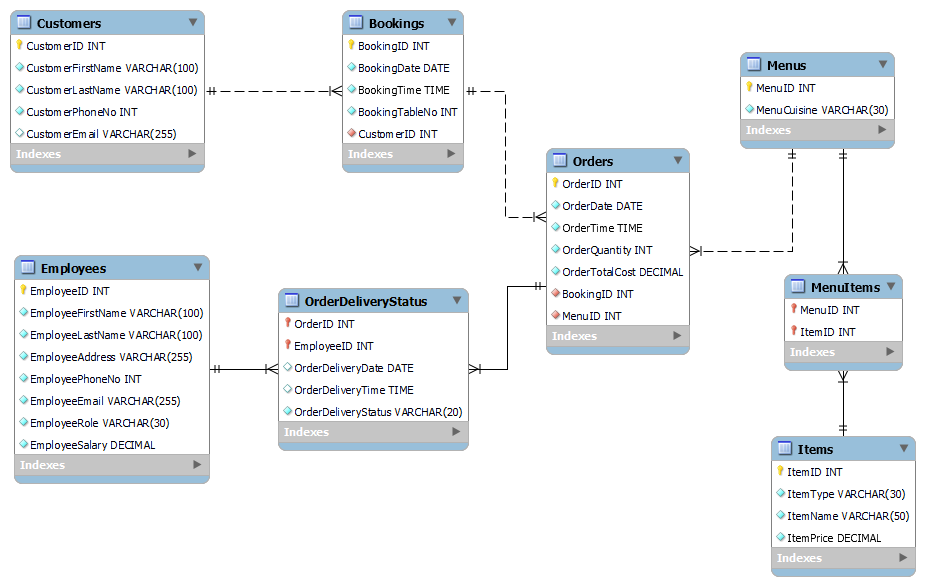
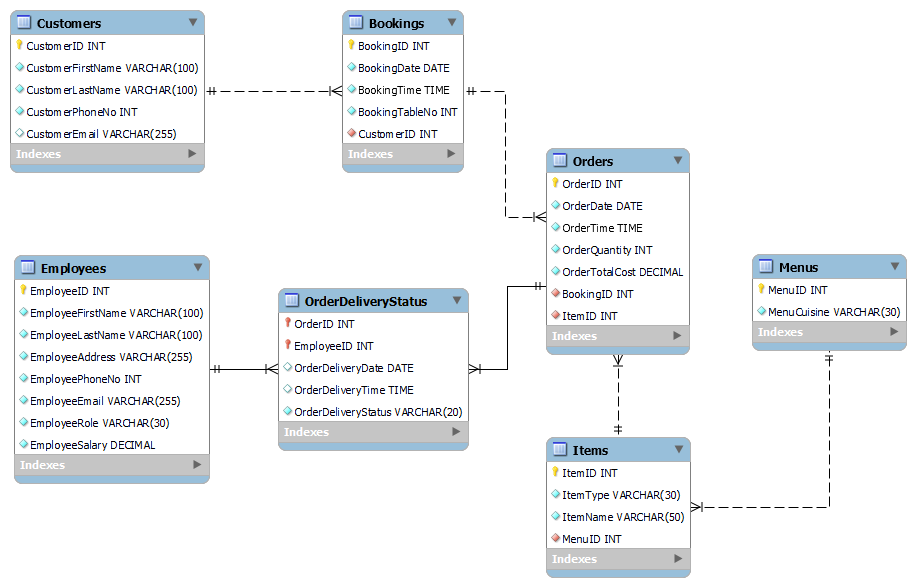
ER diagram refactoring and new SQL dump

diff --git a/README.md b/README.md
@@ -7,4 +7,5 @@ Local repository successfully created, alongside this readme file.
 # 07/31/2023
 Checking if modifying the central repository and then updating the local one works correctly.
 Uploaded the ER diagram with documentation and a SQL dump file.
-Created a test branch on the local repositiory. 
+Created a test branch on the local repositiory.
+Further changes on the ER diagram, with subsequent update of the corresponding documentation and re-exporting of the dump SQL file. 
